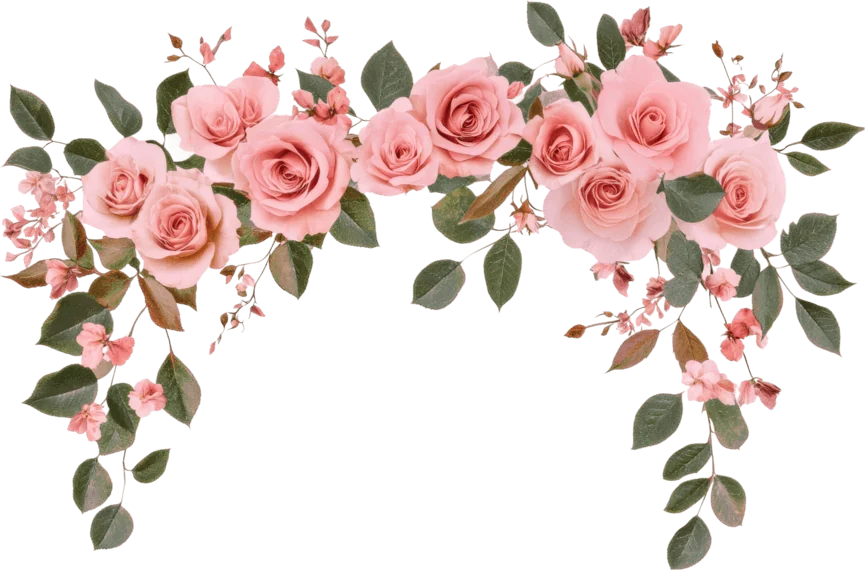
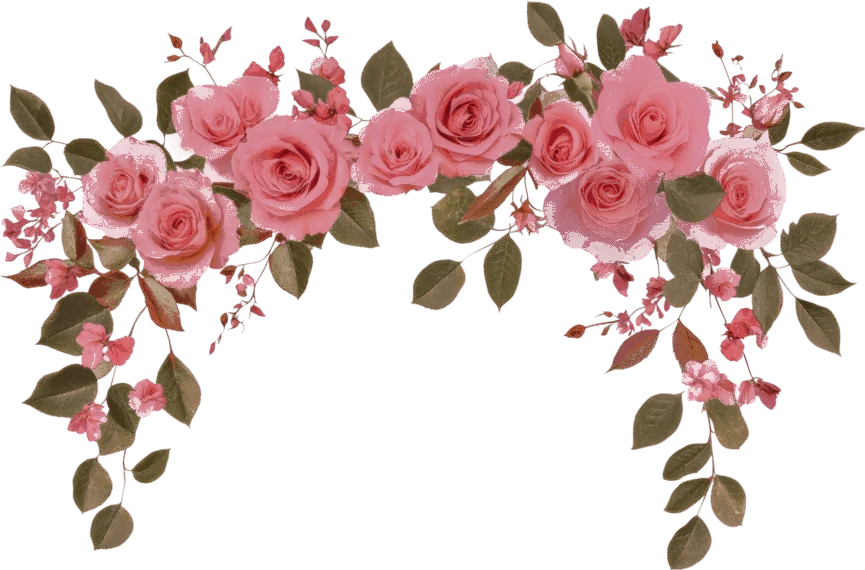
fix(wedding): harmonize couple crown with wine editorial tones
Regrade roses toward dusty wine, olive/bronze foliage, and soften CSS integration with wine shadows and a lower wider sit.

diff --git a/engines/true-theme/profiles/jessica-samuel-wedding/jessica-samuel-approved-additions.css b/engines/true-theme/profiles/jessica-samuel-wedding/jessica-samuel-approved-additions.css
@@ -2023,16 +2023,20 @@
 .js-wedding-couple-crown {
   position: absolute;
   left: 50%;
-  top: -7%;
+  top: -4%;
   z-index: 4;
-  width: 136%;
+  width: 144%;
   max-width: none;
   height: auto;
   translate: -50% 0;
   pointer-events: none;
   user-select: none;
-  opacity: 0.9;
-  filter: drop-shadow(0 8px 16px rgba(23, 19, 18, 0.28));
+  opacity: 0.84;
+  filter:
+    saturate(0.88)
+    brightness(0.94)
+    drop-shadow(0 6px 14px rgba(122, 35, 50, 0.34))
+    drop-shadow(0 2px 6px rgba(104, 27, 41, 0.22));
 }
 
 /* Move frame + crown together; cancel photo-only hover lift */
@@ -2057,16 +2061,16 @@
   }
 
   .js-wedding-couple-crown {
-    width: 140%;
-    top: -5.5%;
-    opacity: 0.88;
+    width: 148%;
+    top: -3%;
+    opacity: 0.82;
   }
 }
 
 @media (max-width: 380px) {
   .js-wedding-couple-crown {
-    width: 146%;
-    top: -4.5%;
+    width: 152%;
+    top: -2.5%;
   }
 }
 